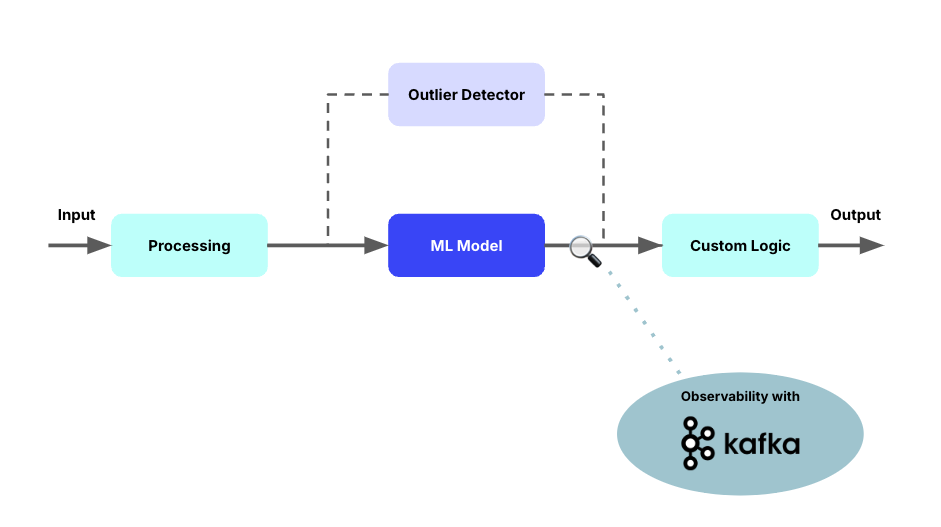
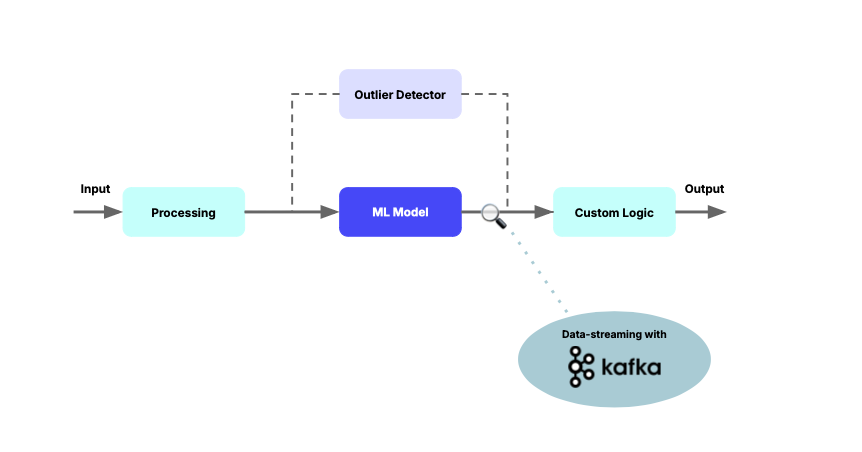
docs: fix rewrite of About (#6296)
* added the inro content and diagram

* added data-centric and modular befnefits table

* fromatted the table

* fixed the formatting

* added mermaid diagram

* rewrorded some lines

* added a diagram

* added the right path for the image

* trying comment out

* removed teh table with data-centric and modular approach

* reworded a sentence

* added the oold about file for future reference

* intro and concepts draft

* updated the concepts link

* added concepts

* changed the heading in concepts

* added the concepts

* added experiments

* Update core-features.md

incorporate Mathew's suggestions

* updated the image

* added the updated image 2

* Update README.md

---------

Changed region(s): [[0.0603, 0.0929, 0.935, 0.5265], [0.6032, 0.6814, 0.935, 0.9602]]

diff --git a/docs-gb/README.md b/docs-gb/README.md
@@ -1,48 +1,39 @@
-# About
+# Why Seldon Core 2
 
-Seldon Core 2 is a source-available framework for deploying and managing machine learning systems at scale. The data-centric approach and modular architecture of Core 2 helps you deploy, manage, and scale your ML - from simple models to complex ML applications. After the models are deployed, Core 2 enables the monitoring and experimentation on those systems in production. With support for a wide range of model types, and design patterns to build around those models, you can standardize ML deployment across a range of use-cases in the cloud or on-premise serving infrastructure of your choice. 
+Seldon Core 2 is a source-available, Kubernetes-native framework designed to deploy and manage machine learning (ML) systems at scale. Its data-centric approach and modular architecture enable you to handle everything from simple models to complex ML applications, ensuring flexibility, standardization, observability, and cost optimization across diverse environments, including on-premise, hybrid, and multi-cloud setups.
 
-{% embed url="https://www.youtube.com/watch?v=ar5lSG_idh4" %}
+![Seldon Core 2 key benefits](./images/seldon_core_2_intro.png)
 
-## Model Deployment
+## **Flexibility: Real-time, your way**
 
-Seldon Core 2 orchestrates and scales machine learning components running as production-grade microservices. These components can be deployed locally or in enterprise-scale kubernetes clusters. The components of your ML system - such as models, processing steps, custom logic, or monitoring methods - are deployed as **Models**, leveraging serving solutions compatible with Core 2 such as MLServer, Alibi, LLM Module, or Triton Inference Server. These serving solutions package the required dependencies and standardize inference using the Open Inference Protocol. This ensures that, regardless of your model types and use-cases, all request and responses follow a unified format. After models are deployed, they can process REST or gRPC requests for real-time inference.
+Core 2 offers a platform-agnostic, flexible framework for seamless deployment of different types of ML models across on-premise, cloud, and hybrid environments. Its adaptive architecture enables customizable applications, future-proofing MLOps by scaling deployments as data and applications evolve. The modular design enhances resource-efficiency, allowing dynamic scaling, component reuse, and optimized resource allocation. This ensures long-term scalability, operational efficiency, and adaptability to changing demands.
 
-## Complex Applications & Orchestration
+## **Standardization: Consistency across workflows**
 
-Machine learning applications are increasingly complex. They’ve evolved from individual models deployed as services, to complex applications that can consist of multiple models, processing steps, custom logic, and asynchronous monitoring components. With Core you can build  Pipelines that connect any of these components to make data-centric applications. Core 2 handles orchestration and scaling of the underlying components of such an application, and exposes the data streamed through the application in real time using Kafka. 
+Seldon Core 2 enforces best practices for ML deployment, ensuring consistency, reliability, and efficiency across the entire lifecycle. By automating key steps, it removes operational bottlenecks, enabling faster deployments and allowing teams to focus on high-value tasks.
 
-{% hint style="info" %}
-Data-centricity is an approach that places the management, integrity, and flow of data at the core of the machine learning deployment framework. 
-{% endhint %}
+With a "learn once, deploy anywhere" approach, Seldon Core 2 standardizes model deployment across on-premise, cloud, and hybrid environments, reducing risks and improving productivity. Its consistent methods build trust in both new and existing models, fostering innovation and unlocking AI’s full potential while ensuring accuracy and compliance.
 
-This approach to MLOps, influenced by our position paper [Desiderata for next generation of ML model serving](https://arxiv.org/abs/2210.14665), enables real-time observability, insight, and control on the behavior, and performance of your ML systems.  
+Seldon Core 2 enhances collaboration between MLOps Engineers, Data Scientists, and Software Engineers through a customizable framework that promotes knowledge sharing, innovation, and seamless adoption of new data science features.
 
+## **Enhanced Observability**
 
-![Data-centric pipeline](images/pipeline-intro.png)
+Observability in Seldon Core 2 enables real-time monitoring, analysis, and performance tracking of ML systems, covering data pipelines, models, and deployment environments. Its customizable framework combines operational and data science monitoring, ensuring teams have the key metrics needed for maintenance and decision-making.
 
-Lastly, Core 2 provides Experiments as part of its orchestration capabilities, enabling users to implement routing logic such as A/B tests or Canary deployments to models or pipelines in production. After experiments are run, you can promote new models or pipelines, or launch new experiments, so that you can continuously improve the performance of your ML applications.
+With scalable maintenance, Seldon simplifies operational monitoring, allowing real-time ML deployments to expand across organizations while supporting complex, mission-critical use cases. A data-centric approach ensures all prediction data is auditable, maintaining explainability, compliance, and trust in AI-driven decisions.
 
+Seldon Core 2 provides flexible metric aggregation, surfacing operational, data science, and custom metrics for different users. Whether teams need high-level overviews or deep insights, Seldon ensures full transparency. With real-time access, you can register, monitor, and audit models step by step, gaining visibility into data-driven decisions and ensuring accountable, trustworthy AI systems.
 
-## Resource Management
+## **Optimization: Modularity to maximize resource efficiency**
 
-In Seldon Core 2 your models are deployed on inference servers, which manage the packaging and execution of ML workloads. As part its design, Core 2 separates out **Servers** and **Models** as separate resources. This approach enables flexible allocation of models to servers aligning with the requirements of your models, and to the underlying infrastructure that you want your servers to run on. Core 2 also provides functionality to autoscale your models and servers up and down as needed based on your workload requirements or user-defined metrics. 
+Seldon Core 2 is built for scalability, efficiency, and cost-effective ML operations, enabling organizations to deploy only the necessary components while maintaining agility and high performance. Its modular architecture ensures that resources are optimized, infrastructure is consolidated, and deployments remain adaptable to evolving business needs.
 
-With the modular design of Core 2, users are able to implement cutting-edge methods to minimize hardware costs:
+**Scaling for Efficiency:** dynamic infrastructure scaling based on real-time demand, ensuring that only required resources are used. By eliminating redundancy and optimizing model deployments, you can reduce operational costs while maintaining performance.
 
-- **Multi-Model serving** consolidates multiple models onto shared inference servers to optimize resource utilization and decrease the number of servers required.
-- **Over-commit** allows you to provision more models than the available memory would normally allow by dynamically loading and unloading models from memory to disk based on demand.
+**Consolidated Serving Infrastructure**: With multi-model serving (MMS) and overcommit capabilities, Seldon Core 2 maximizes resource utilization by intelligently allocating models across available infrastructure. This approach reduces compute overhead while ensuring reliable and efficient model inference.
 
-![Example: Serving multiple model types across inference servers](images/models-servers.png)
+**Extendability & Modular Adaptation**: Designed for flexibility, Seldon Core 2 integrates seamlessly with external modules like LLMs and Alibi, enabling organizations to extend their ML capabilities as needed. Its modular nature supports easy adaptation, ensuring compatibility with diverse AI workloads.
 
-## End-to-End MLOps with Core 2
+**Reusability for Cost Optimization:** By repurposing and reusing components across workflows, Seldon Core 2 eliminates the need to rebuild from scratch. This accelerates ML development, enhances operational efficiency, and ensures long-term AI sustainability while minimizing infrastructure costs.
 
-Core 2 demonstrates the power of a standardized, data-centric approach to MLOps at scale, ensuring that data observability and management are prioritized across every layer of machine learning operations. Furthermore, Core 2 seamlessly integrates into end-to-end MLOps workflows, from CI/CD, managing traffic with the service mesh of your choice, alerting, data visualization, or authentication and authorization. 
-
-This modular, flexible architecture not only supports diverse deployment patterns but also ensures compatibility with the latest AI innovations. By embedding data-centricity and adaptability into its foundation, Core 2 equips organizations to scale and improve their machine learning systems effectively, to capture value from increasingly complex AI systems.
-
-## Next Steps
-
-- [Install Seldon Core 2](./getting-started/README.md)
-- Explore our [Tutorials](./examples/README.md)
-- [Join our Slack Community](https://seldondev.slack.com/join/shared_invite/zt-vejg6ttd-ksZiQs3O_HOtPQsen_labg#/shared-invite/email) for updates or for answers to any questions
+By combining scalability, infrastructure consolidation, modular adaptability, and component reusability, Seldon Core 2 empowers you to lower costs, streamline workflows, and drive AI innovation—all while maintaining flexibility and high performance.

diff --git a/docs-gb/concepts/README.md b/docs-gb/concepts/README.md
@@ -1,7 +1,106 @@
-## Concepts
-* Data-Centric MLOps
-* Servers
-* OIP
-* Components
-* Pipelines
-* [Experiments](experiments.md)
+
+In the context of machine learning and Seldon Core 2, concepts provide a framework for understanding key functionalities, architectures, and workflows within the system. Some of the Key concepts in Seldon Core 2 are:
+
+* [Data-Centric MLOps](#data-centric-mlops)
+* [Open Inference Protocol](#open-inference-protocol-in-seldon-core-2)
+* [Components](#components-in-seldon-core-2)
+* [Pipelines](#pipelines)
+* [Severs](#servers)
+* [Experiments](#experiments)
+
+## Data-Centric MLOps
+
+Data-centricity is an approach that prioritizes the management, integrity, and flow of data at the core of machine learning deployment. Rather than focusing solely on models, this approach ensures that data quality, consistency, and adaptability drive successful ML operations. In Seldon Core 2, data-centricity is embedded in every stage of the inference workflow, enabling scalable, real-time, and standardized model serving.
+
+| **Key Principle**          | **Description** |
+|---------------------------|---------------|
+| **Flexible Workflows**      | Seldon Core 2 supports *adaptable and scalable data pathways*, accommodating various **use cases and experiments**. This ensures ML pipelines remain *agile*, allowing you to evolve the **data processing strategies** as requirements change. |
+| **Real-Time Data Streaming** | Integrated *data streaming capabilities* allow you to *view, store, manage, and process data in real time*. This enhances *responsiveness and decision-making*, ensuring models work with *the most up-to-date data* for accurate predictions. |
+| **Standardized Processing**  | Seldon Core 2 promotes *reusable and consistent* data transformation and routing mechanisms. Standardized processing ensures *data integrity and uniformity* across applications, reducing errors and inconsistencies. |
+| **Comprehensive Monitoring** | *Detailed metrics and logs* provide real-time visibility into *data integrity, transformations, and flow*. This enables *effective oversight and maintenance*, allowing teams to detect *anomalies, drifts, or inefficiencies* early. |
+
+Why Data-Centricity Matters?
+
+By adopting a data-centric approach, Seldon Core 2 enables:
+* More reliable and high-quality predictions by ensuring clean, well-structured data.
+* Scalable and future-proof ML deployments through standardized data management.
+* Efficient monitoring and maintenance, reducing risks related to model drift and inconsistencies.
+
+With data-centricity as a core principle, Seldon Core 2 ensures end-to-end control over ML workflows, enabling you to maximize model performance and reliability in production environments.
+
+## Open Inference Protocol in Seldon Core 2
+The Open Inference Protocol ensures standardized communication between inference servers and clients, enabling interoperability and flexibility across different model-serving runtimes in Seldon Core 2.
+
+To be compliant, an inference server must implement these three key APIs:
+| **API**            | **Function** |
+|-------------------|-------------|
+| **Health API**    | Ensures the server is *operational and available* for inference requests. |
+| **Metadata API**  | Provides *essential details* about deployed models, including *capabilities and configurations*. |
+| **Inference V2 API** | Facilitates *standardized request and response handling* for model inference. |
+
+**Protocol Compatibility**
+* Flexible API Support: A compliant server can implement either HTTP/REST or gRPC APIs, or both.
+* Runtime Compatibility:Users should refer to the model serving runtime table or the protocolVersion field in runtime YAML to confirm V2 protocol support for their serving runtime.
+
+**Case Sensitivity and Extensions**
+All strings are case-sensitive across API descriptions.V2 protocol includes an extension mechanism, though specific extensions are defined separately.
+
+By adopting the Open Inference Protocol, Seldon Core 2 ensures standardized, scalable, and flexible model serving across diverse deployment environments.
+
+## Components in Seldon Core 2
+Components are the building blocks of an inference graph, processing data at various stages of the ML inference pipeline. They provide reusable, standardized interfaces, making it easier to maintain and update workflows without disrupting the entire system. Components include ML models, data processors, routers, and supplementary services.
+
+Types of Components
+
+| **Component Type**                     | **Description** |
+|-----------------------------------------|---------------|
+| **Sources**                             | Starting points of an inference graph that receive and validate incoming data before processing. |
+| **Data Processors**                     | Transform, filter, or aggregate data to ensure consistent, repeatable pre-processing. |
+| **Data Routers**                         | Dynamically route data to different paths based on predefined rules for A/B testing, experimentation, or conditional logic. |
+| **Models**                               | Perform inference tasks, including classification, regression, and Large Language Models (LLMs), hosted internally or via external APIs. |
+| **Supplementary Data Services**         | External services like vector databases that enable models to access embeddings and extended functionality. |
+| **Drift/Outlier Detectors & Explainers** | Monitor model predictions for drift, anomalies, and explainability insights, ensuring transparency and performance tracking. |
+| **Sinks**                                | Endpoints of an inference graph that deliver results to external consumers while maintaining a stable interface. |
+
+By modularizing inference workflows, components allow you to scale, experiment, and optimize ML deployments efficiently while ensuring data consistency and reliability. 
+
+
+## Pipelines
+
+In a model serving platform, a pipeline is an automated sequence of steps that manages the deployment, execution, and monitoring of machine learning models. Pipelines ensure that models are efficiently served, dynamically updated, and continuously monitored for performance and reliability in production environments.
+
+| **Stage**                   | **Description** |
+|-----------------------------|---------------|
+| **Request Ingestion**        | Receives inference requests from applications, APIs, or streaming sources. |
+| **Preprocessing**            | Transforms input data for example, tokenization, or normalization before passing it to the model. |
+| **Model Selection & Routing**| Directs requests to the appropriate model based on rules, versions, or A/B testing. |
+| **Inference Execution**      | Runs predictions using the deployed model. |
+| **Postprocessing**           | Converts model outputs into a consumable format such as confidence scores, structured responses. |
+| **Response Delivery**        | Returns inference results to the requesting application or system. |
+| **Monitoring & Logging**     | Tracks model performance, latency, and accuracy; detects drift and triggers alerts if needed. |
+
+## Servers
+In Seldon Core 2, servers are responsible for hosting and serving machine learning models, handling inference requests, and ensuring scalability, efficiency, and observability in production. Seldon Core 2 supports multiple inference servers, including MLServer and NVIDIA Triton, enabling flexible and optimized model deployments.
+
+| **Server**        | **Description** | **Best Suited For** |
+|-------------------|---------------|---------------------|
+| **MLServer**     | A lightweight, extensible inference server designed to work with multiple ML frameworks, including *scikit-learn, XGBoost, TensorFlow, and PyTorch*. It supports *custom Python models* and integrates well with *MLOps workflows*. | *General-purpose model serving*, custom model wrappers, multi-framework support. |
+| **NVIDIA Triton** | A high-performance inference server optimized for *GPU and CPU acceleration*, supporting deep learning models across frameworks like *TensorFlow, PyTorch, and ONNX*. Triton enables *multi-model and ensemble model inference*, making it ideal for *scalable AI workloads*. | *High-throughput deep learning inference*, multi-model deployments, GPU-accelerated workloads. |
+
+With MLServer and Triton, Seldon Core 2 provides a powerful, efficient, and flexible model-serving platform for production-scale AI applications. 
+
+## Experiments
+
+In Seldon Core 2, experiments enable controlled A/B testing, model comparisons, and performance evaluations by defining an HTTP traffic split between different models or inference pipelines. This allows organizations to test multiple versions of a model in production while managing risk and ensuring continuous improvements.
+
+| **Experiment Type**  | **Description** |
+|----------------------|----------------|
+| **Traffic Splitting** | Distributes inference requests across different models or pipelines based on predefined percentage splits. This enables *A/B testing* and comparison of multiple model versions. |
+| **Mirror Testing** | Sends a *percentage of the traffic* to a *mirror model or pipeline* without affecting the response returned to users. This allows evaluation of new models without impacting production workflows. |
+
+Some of the advantages of using Experiments:
+* A/B Testing & Model comparison: Compare different models under real-world conditions without full deployment.
+* Risk-Free model validation: Test a new model or pipeline in parallel without affecting live predictions.
+* Performance & Drift monitoring: Assess latency, accuracy, and reliability before a full rollout.
+* Continuous improvement: Make data-driven deployment decisions based on real-time model performance.
+

diff --git a/docs-gb/core-features.md b/docs-gb/core-features.md
@@ -1,0 +1,48 @@
+# Features
+
+ After the models are deployed, Core 2 enables the monitoring and experimentation on those systems in production. With support for a wide range of model types, and design patterns to build around those models, you can standardize ML deployment across a range of use-cases in the cloud or on-premise serving infrastructure of your choice. 
+
+{% embed url="https://www.youtube.com/watch?v=ar5lSG_idh4" %}
+
+## Model Deployment
+
+Seldon Core 2 orchestrates and scales machine learning components running as production-grade microservices. These components can be deployed locally or in enterprise-scale kubernetes clusters. The components of your ML system - such as models, processing steps, custom logic, or monitoring methods - are deployed as **Models**, leveraging serving solutions compatible with Core 2 such as MLServer, Alibi, LLM Module, or Triton Inference Server. These serving solutions package the required dependencies and standardize inference using the Open Inference Protocol. This ensures that, regardless of your model types and use-cases, all request and responses follow a unified format. After models are deployed, they can process REST or gRPC requests for real-time inference.
+
+## Complex Applications & Orchestration
+
+Machine learning applications are increasingly complex. They’ve evolved from individual models deployed as services, to complex applications that can consist of multiple models, processing steps, custom logic, and asynchronous monitoring components. With Core you can build  Pipelines that connect any of these components to make data-centric applications. Core 2 handles orchestration and scaling of the underlying components of such an application, and exposes the data streamed through the application in real time using Kafka. 
+
+{% hint style="info" %}
+Data-centricity is an approach that places the management, integrity, and flow of data at the core of the machine learning deployment framework. 
+{% endhint %}
+
+This approach to MLOps, influenced by our position paper [Desiderata for next generation of ML model serving](https://arxiv.org/abs/2210.14665), enables real-time observability, insight, and control on the behavior, and performance of your ML systems.  
+
+
+![Data-centric pipeline](images/pipeline-intro.png)
+
+Lastly, Core 2 provides Experiments as part of its orchestration capabilities, enabling users to implement routing logic such as A/B tests or Canary deployments to models or pipelines in production. After experiments are run, you can promote new models and/or pipelines, or launch new experiments, so that you can continuously improve the performance of your ML applications.
+
+
+## Resource Management
+
+In Seldon Core 2 your models are deployed on inference servers, which are software that manage the packaging and execution of ML workloads. As part its design, Core 2 separates out **Servers** and **Models** as separate resources. This approach enables flexible allocation of models to servers aligning with the requirements of your models, and to the underlying infrastructure that you want your servers to run on. Core 2 also provides functionality to autoscale your models and servers up and down as needed based on your workload requirements or user-defined metrics. 
+
+With the modular design of Core 2, users are able to implement cutting-edge methods to minimize hardware costs:
+
+- **Multi-Model serving** consolidates multiple models onto shared inference servers to optimize resource utilization and decrease the number of servers required.
+- **Over-commit** allows you to provision more models than the available memory would normally allow by dynamically loading and unloading models from memory to disk based on demand.
+
+![Example: Serving multiple model types across inference servers](images/models-servers.png)
+
+## End-to-End MLOps with Core 2
+
+Core 2 demonstrates the power of a standardized, data-centric approach to MLOps at scale, ensuring that data observability and management are prioritized across every layer of machine learning operations. Furthermore, Core 2 seamlessly integrates into end-to-end MLOps workflows, from CI/CD, managing traffic with the service mesh of your choice, alerting, data visualization, or authentication and authorization. 
+
+This modular, flexible architecture not only supports diverse deployment patterns but also ensures compatibility with the latest AI innovations. By embedding data-centricity and adaptability into its foundation, Core 2 equips organizations to scale and improve their machine learning systems effectively, to capture value from increasingly complex AI systems.
+
+## Next Steps
+
+- [Install Seldon Core 2](./getting-started/README.md)
+- Explore our [Tutorials](./examples/README.md)
+- [Join our Slack Community](https://seldondev.slack.com/join/shared_invite/zt-vejg6ttd-ksZiQs3O_HOtPQsen_labg#/shared-invite/email) for updates or for answers to any questions

diff --git a/docs-gb/SUMMARY.md b/docs-gb/SUMMARY.md
@@ -1,8 +1,9 @@
 # Table of contents
 
 ## About
-* [Overview](README.md)
-<!-- * [Concepts](/docs-gb/concepts/README.md) -->
+* [Why Seldon Core](README.md)
+* [Seldon Core features](core-features.md)
+* [Concepts](concepts/README.md)
 * [Architecture](architecture/README.md)
 
 ## Installation
@@ -24,13 +25,12 @@
 * [Upgrading](upgrading.md) 
 
 ## User Guide
-<!-->
-* Getting Started
-  * Deploy Model (OIP+MLServer Link)
-  * Pipeline
-  * Inference Server
-  * Run Inference -->
-  * [Kubernetes Resources](kubernetes/resources/README.md) 
+<!-- * Getting Started -->
+<!-- * Deploy Model (OIP+MLServer Link) -->
+<!-- * Pipeline -->
+<!-- * Inference Server -->
+<!-- * Run Inference -->
+* [Kubernetes Resources](kubernetes/resources/README.md) 
 * [Servers](servers.md)
     * [Resource allocation](resource-allocation/README.md)
       * [Example: Serving models on dedicated GPU nodes](resource-allocation/example-serving-models-on-dedicated-gpu-nodes.md)
